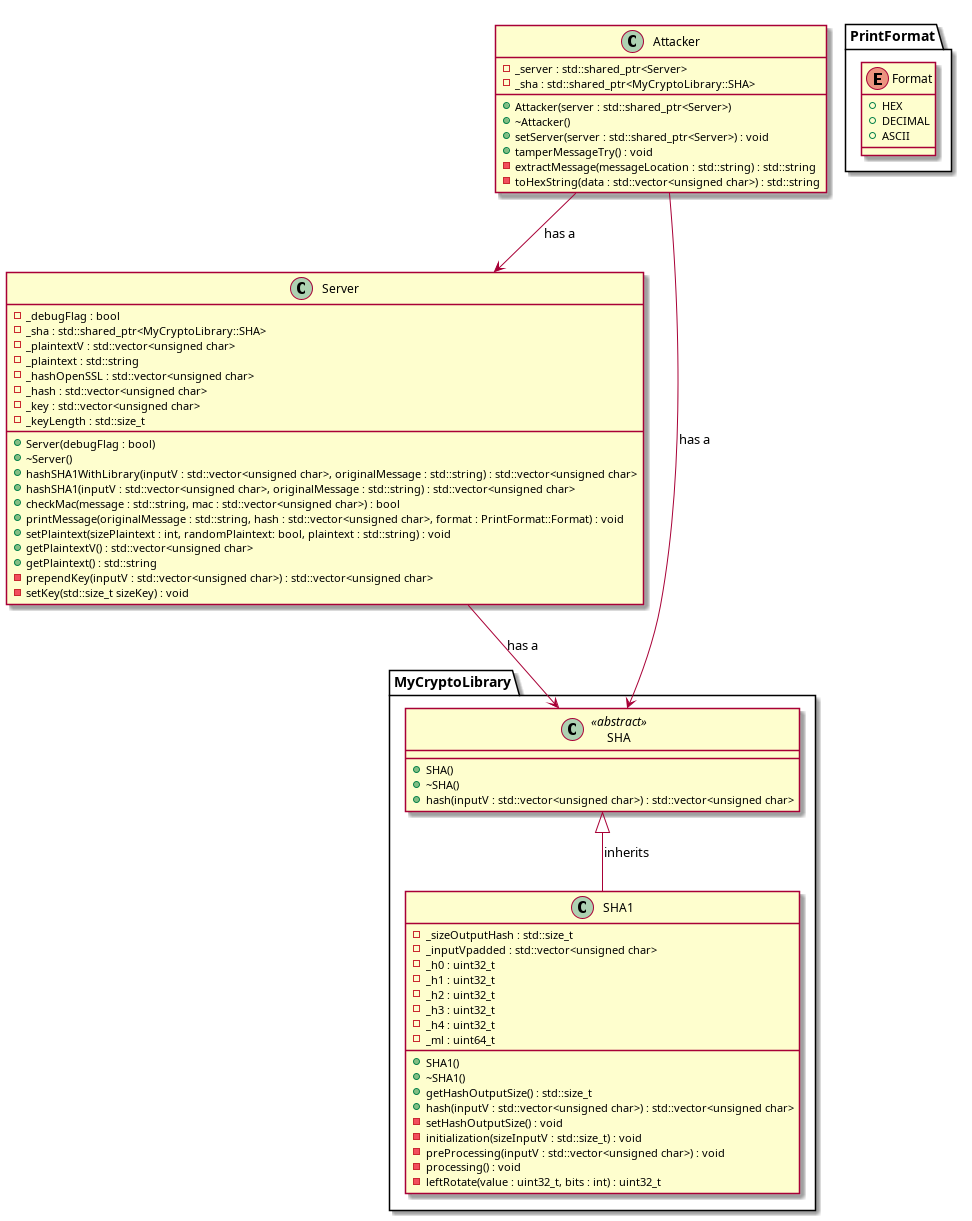
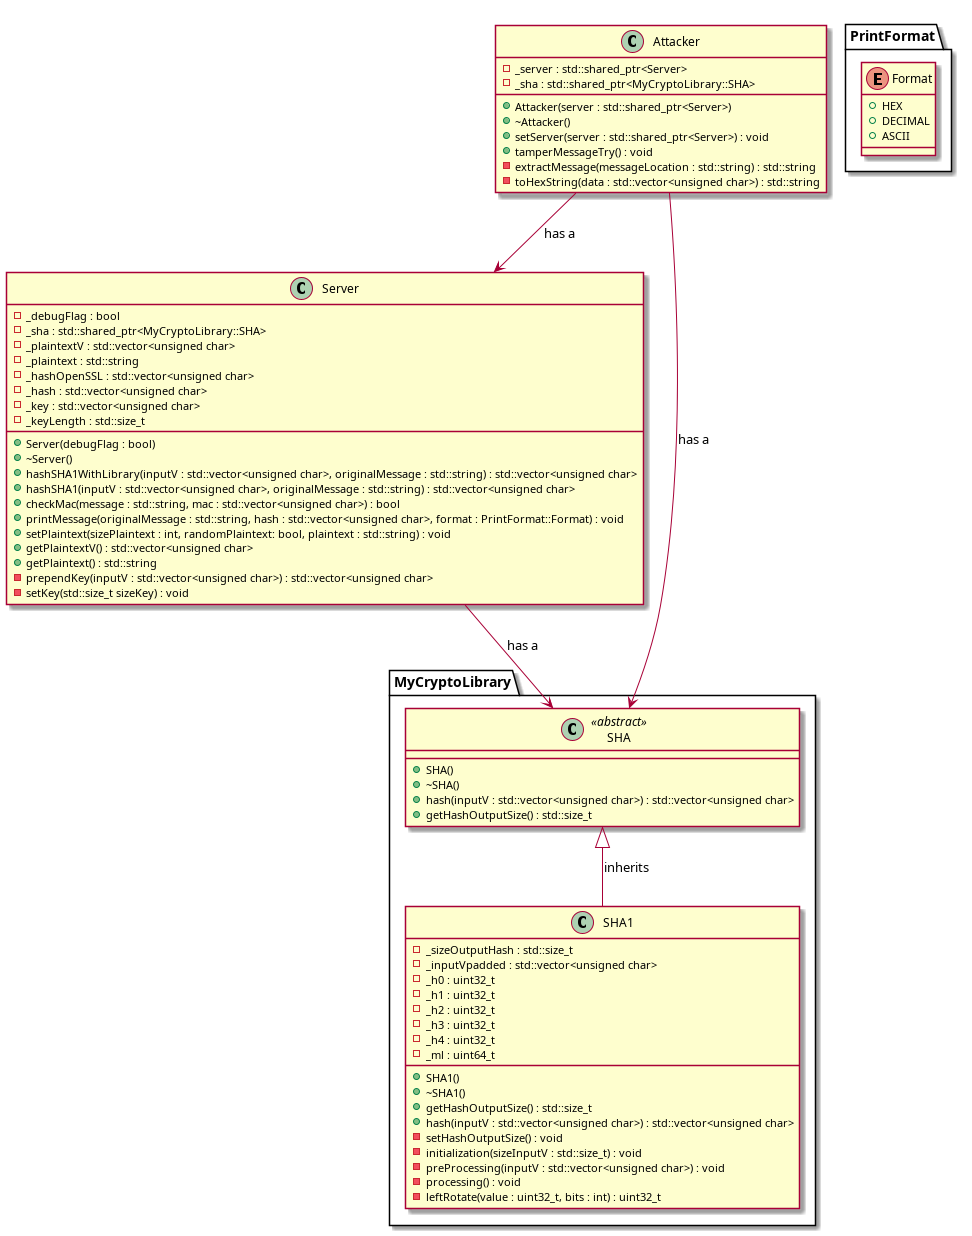
Complete sha1 tests

Changed region(s): [[0.0, 0.0, 0.9877, 0.9959], [0.679, 0.3423, 0.7407, 0.3735]]

diff --git a/Cryptopals_resolutions/4-Set_4/cryptopals_set_4_problem_28/tests/test_sha1.cpp b/Cryptopals_resolutions/4-Set_4/cryptopals_set_4_problem_28/tests/test_sha1.cpp
@@ -16,7 +16,7 @@ protected:
     // Cleanup (if needed)
   }
 
-  std::unique_ptr<MyCryptoLibrary::SHA> sha1;
+  std::unique_ptr<MyCryptoLibrary::SHA1> sha1;
   std::string test_input;
   std::vector<unsigned char> input, expectedHash, hash;
 };
@@ -25,8 +25,11 @@ int main(int argc, char **argv) {
   ::testing::InitGoogleTest(&argc, argv);
   return RUN_ALL_TESTS();
 }
-
-TEST_F(SHA1Test, HashCorrectnessEnglishSentenceAsAnInput) {
+/**
+ * @test Test the correctness of the hash function.
+ * @brief Ensures that hash sha1 output is the expected one
+ */
+TEST_F(SHA1Test, Hash_EnglishSentenceInput_ShouldMatchReference) {
   test_input = "This is a test!";
   input.insert(input.end(), test_input.begin(), test_input.end());
   auto hash = sha1->hash(input);
@@ -35,9 +38,33 @@ TEST_F(SHA1Test, HashCorrectnessEnglishSentenceAsAnInput) {
   std::vector<unsigned char> expected = {
       0x8B, 0x6C, 0xCB, 0x43, 0xDC, 0xA2, 0x04, 0x0C, 0x3C, 0xFB,
       0xCD, 0x7B, 0xFF, 0xF0, 0xB3, 0x87, 0xD4, 0x53, 0x8C, 0x33};
-  const std::size_t expected_size = expected.size();
   ASSERT_EQ(hash.size(), 20);
-  for (std::size_t i = 0; i < expected_size; ++i) {
-    ASSERT_EQ(hash[i], expected[i]);
-  }
+  ASSERT_EQ(hash, expected);
+}
+
+/**
+ * @test Test the correctness of the hash function.
+ * @brief Ensures that hash sha1 output is the expected one
+ * for an empty input
+ */
+TEST_F(SHA1Test, Hash_EmptyInput_ShouldMatchReference) {
+  test_input = "";
+  input.insert(input.end(), test_input.begin(), test_input.end());
+  auto hash = sha1->hash(input);
+
+  // Example expected output (change as needed)
+  std::vector<unsigned char> expected = {
+      0xDA, 0x39, 0xA3, 0xEE, 0x5E, 0x6B, 0x4B, 0x0D, 0x32, 0x55,
+      0xBF, 0xEF, 0x95, 0x60, 0x18, 0x90, 0xAF, 0xD8, 0x07, 0x09};
+  ASSERT_EQ(hash.size(), 20);
+  ASSERT_EQ(hash, expected);
+}
+
+/**
+ * @test Test that the hash has the correct size
+ * @brief Ensures that hash sha1 output has the correct size output
+ */
+TEST_F(SHA1Test,
+       GetHashOutputSize__NormalClassInitialization_ShouldMatchTheCorrectSize) {
+  ASSERT_EQ(sha1->getHashOutputSize(), 20);
 }

diff --git a/Cryptopals_resolutions/4-Set_4/cryptopals_set_4_problem_28/include/SHA.hpp b/Cryptopals_resolutions/4-Set_4/cryptopals_set_4_problem_28/include/SHA.hpp
@@ -21,6 +21,9 @@ public:
    */
   virtual std::vector<unsigned char>
   hash(const std::vector<unsigned char> &inputV) = 0;
+
+  /// Returns the hash output size in bytes.
+  virtual std::size_t getHashOutputSize() = 0;
 };
 
 } // namespace MyCryptoLibrary
